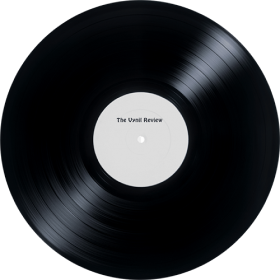
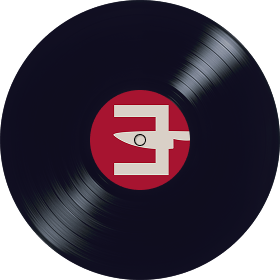
fix: fix and recode some feature and create header and intro album

diff --git a/e11/amin/assets/styles/index.css b/e11/amin/assets/styles/index.css
@@ -1,22 +1,24 @@
 :root {
 
-  --black: #0b0b0b;
-  --charcoal: #181818;
-  --graphite: #282828;
-  --silver: #b3b3b3;
-  --white: #ffffff;
-  --green: #1db954;
-  --green-light: #1ed760;
+  --slate: #474c59;
+  --night: #404450;
+  --night-deep: #32353e;
+  --sand: #d9d1c7;
+  --fog: #908e90;
+  --steel: #818185;
+  --line-gray: #5d606a;
+  --navy: #131026;
 
 
-  --bg: var(--black);
-  --surface: var(--charcoal);
-  --surface-hover: var(--graphite);
-  --text: var(--white);
-  --text-muted: var(--silver);
-  --primary: var(--green);
-  --primary-hover: var(--green-light);
-  --on-primary: var(--black);
+  --bg: var(--slate);
+  --surface: var(--night);
+  --surface-hover: var(--night-deep);
+  --text: var(--sand);
+  --text-muted: var(--fog);
+  --outline: var(--steel);
+  --line: var(--line-gray);
+  --surface-dark: var(--navy);
+  --text-dark: var(--navy);
 }
 
 * {
@@ -34,7 +36,7 @@ a {
 }
 
 .container {
-  width: 980px;
+  width: 1000px;
   margin: auto;
 }
 .flex {
@@ -43,12 +45,38 @@ a {
 .align-center {
   align-items: center;
 }
+
+
 .header {
-  padding: 20px 0;
-  background-color: var(--surface);
+  padding: 24px 0;
+  text-align: center;
 }
 .header-title {
   margin: 0;
   font-size: 20px;
-  font-weight: 900;
+  font-weight: 700;
+}
+
+
+.album-intro {
+  gap: 115px;
+  margin: 150px 0 280px 0;
+}
+.vinyl-art {
+  position: relative;
+  width: 387px;
+  height: 300px;
+}
+.layer {
+  position: absolute;
+}
+.vinyl-disc {
+  left: 127px;
+  top: 20px;
+  z-index: 1;
+}
+.album-cover {
+  left: 0;
+  top: 0;
+  z-index: 2;
 }

diff --git a/e11/amin/index.html b/e11/amin/index.html
@@ -10,7 +10,24 @@
     </header>
     <main>
       <div class="container">
-        <section class="flex align-center album-intro"></section>
+        <section class="flex align-center album-intro">
+          <div class="vinyl-art">
+            <img
+              class="layer vinyl-disc"
+              src="assets/images/vinyl.png"
+              width="260px"
+              height="260px"
+              alt="Vinyl record"
+            />
+            <img
+              class="layer album-cover"
+              src="assets/images/cover.png"
+              width="300px"
+              height="300px"
+              alt="Album cover"
+            />
+          </div>
+        </section>
         <section class="tracks"></section>
         <section class="albums"></section>
       </div>
